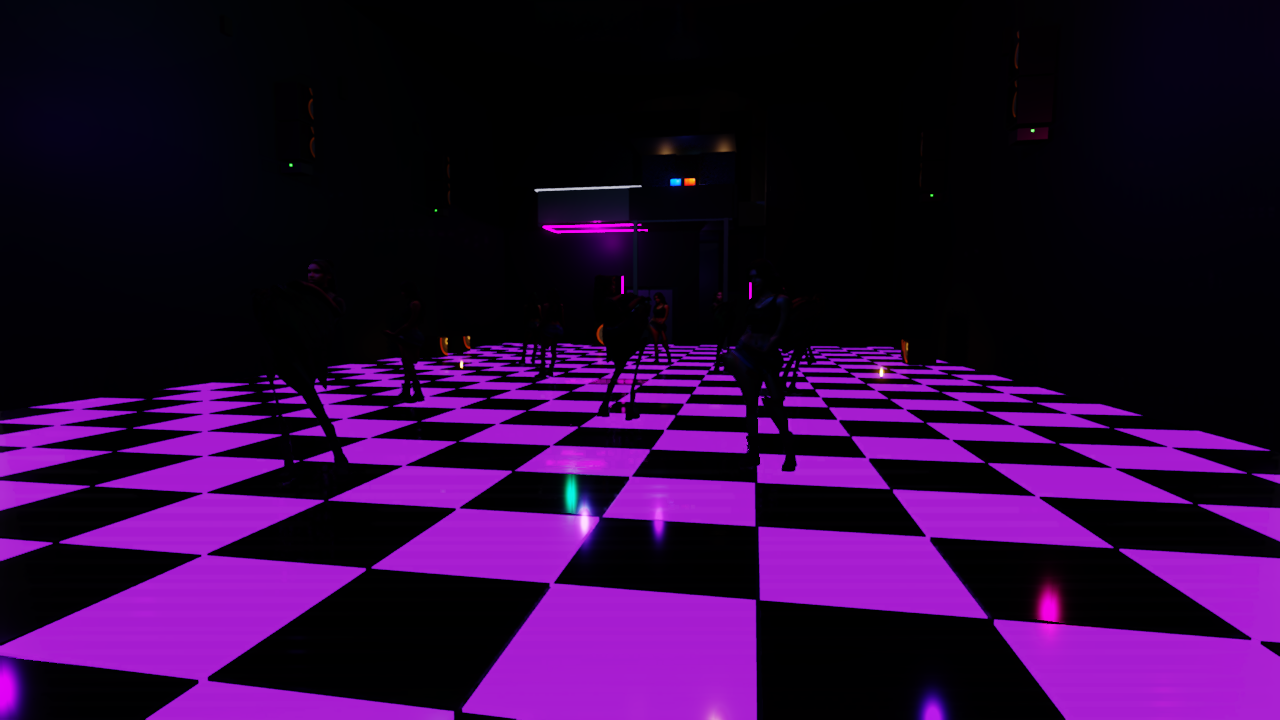
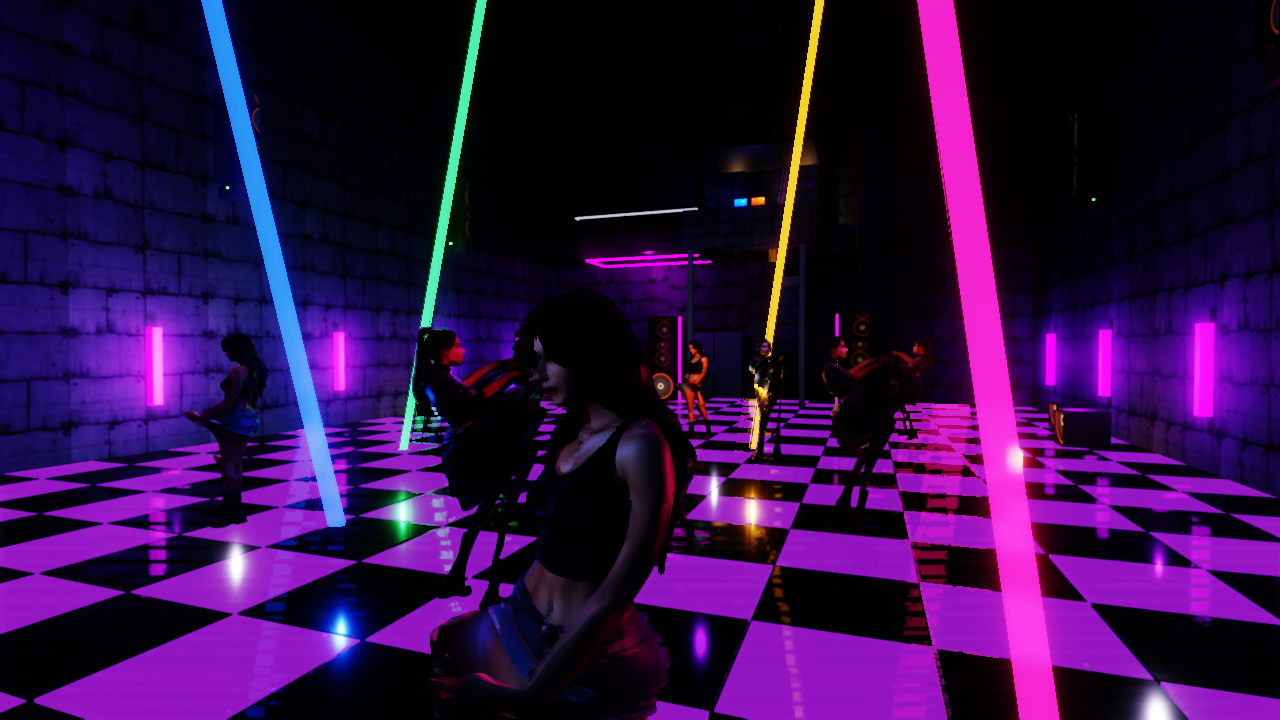
Club 1127: walls can finally RECEIVE light (kWall tint 0.04 -> 0.26) + tube/beam/fill tuning + re-rendered proof shots
THE find: kWall's 0x0a0a12 tint (from the untextured era) multiplied the
concrete texel to ~1% effective albedo — NO light source could EVER register
on a club wall, which is why they stayed dead-black through every relight.
With the texture carrying the darkness and the tint at 0.26, the blacklight
casts now paint a visible violet wash around every vertical tube.

Also:
- tubes pulled PROUD of the wall's inner face (old centers put the whole tube
  INSIDE the wall slab at +-7.57 vs inner face 7.47 — the real reason the
  original 28 'barely read'); cast color up to hot HDR violet (2.0/0.18/4.0).
- dancers: 4 lavender perimeter fills at head height (an overhead key lights
  hair, not faces); dancer tints lifted ~1.25x (dark-albedo outfits swallowed
  the light); dance-floor tile emissive trimmed (2.2 -> 1.5 + pulse floor cut)
  so the floor stops owning the exposure; gel breathe floor 0.62 -> 0.72.
- beams slimmed (0.075 -> 0.055 half-width, opacity 0.10, emissive halved) —
  light shafts, not laser rods.
- screenshots: club_dancefloor + club_wide re-rendered, NEW club_wall showing
  the vertical tubes washing the east wall. Light set: 55 of 64 cap.
- gates: --test-club 16/16, elevator/elevatorfsm/elevator-showcase/canonplay/
  canonlevel all 0 fails, --smoketest --world club exit 0, VUID clean,
  allocationCount=0.

Claude-Session: https://claude.ai/code/session_013JQ1ntcYTtTxDidNeqDp3B

diff --git a/app/club1127.cpp b/app/club1127.cpp
@@ -53,7 +53,16 @@ constexpr float kClubBpm = 85.5f;
 
 // ---- Tints (linear-ish; the device tonemaps) ------------------------------
 // Ported from the JS StandardMaterial diffuse colors (hex -> 0..1 RGB).
-const float kWall[4]   = { 0.039f, 0.039f, 0.070f, 1.0f }; // 0x0a0a12 club wall
+const float kWall[4]   = { 0.26f, 0.26f, 0.34f, 1.0f };    // club wall TINT (multiplies the
+                                                           // sWall concrete texel). Was 0x0a0a12
+                                                           // (~0.04) from the untextured era —
+                                                           // that crushed effective albedo to
+                                                           // ~1%, so NO light (blacklight cast,
+                                                           // gels, fills) could EVER register on
+                                                           // a wall: they stayed dead-black even
+                                                           // when directly lit. The texture
+                                                           // carries the darkness now; the tint
+                                                           // just cools it.
 const float kFloor[4]  = { 0.031f, 0.031f, 0.063f, 1.0f }; // 0x080810 club floor
 const float kCeil[4]   = { 0.020f, 0.020f, 0.031f, 1.0f }; // 0x050508 ceiling
 const float kSpk[4]    = { 0.039f, 0.039f, 0.039f, 1.0f }; // 0x0a0a0a speaker cab
@@ -80,7 +89,10 @@ const float kEmitDjCon[4]   = { 0.10f, 0.10f, 0.28f, 1.5f }; // DJ console glow
 const float kEmitDjScr[4]   = { 0.30f, 0.30f, 0.90f, 3.0f }; // DJ/OLED screens
 const float kEmitKeypad[4]  = { 0.10f, 0.95f, 0.30f, 2.0f }; // green keypad
 const float kEmitBarTop[4]  = { 0.30f, 0.20f, 0.50f, 1.5f }; // bar-top glow
-const float kEmitTile1[4]   = { 0.45f, 0.0f, 0.85f, 2.2f };  // purple dance tile (0x2a0050)
+const float kEmitTile1[4]   = { 0.45f, 0.0f, 0.85f, 1.5f };  // purple dance tile (0x2a0050)
+                                                             // (blacklights pass: 2.2 -> 1.5 — the
+                                                             // blazing floor owned the exposure and
+                                                             // crushed the dancers to silhouettes)
 const float kEmitTile2[4]   = { 0.12f, 0.0f, 0.30f, 1.2f };  // dark dance tile (0x0a0020)
 const float kEmitOrb[4]     = { 0.45f, 0.45f, 0.60f, 1.4f };  // ORB self-glow
 const float kEmitLed[4]     = { 0.10f, 1.00f, 0.10f, 3.0f };  // amp power LED
@@ -91,8 +103,12 @@ const float kBlacklightR = 0.50f, kBlacklightG = 0.0f, kBlacklightB = 1.0f;
 // tubes were emissive-only geometry — they glowed as thin bars but cast NOTHING,
 // so the wall behind them stayed dead-black. Each tube now carries a violet
 // point light at this HDR color; update() pulses it in phase with the emissive.
-const float kBlacklightCast[3] = { 0.65f, 0.06f, 1.30f };
-const float kBlacklightCastRange = 5.0f;   // ~5 m: washes the wall + nearby dancers
+const float kBlacklightCast[3] = { 2.00f, 0.18f, 4.00f };  // hot HDR violet — the wall is
+                                                           // dark-albedo concrete under an
+                                                           // ACES curve keyed to the bright
+                                                           // floor; anything gentler reads
+                                                           // as black (0.65 and 1.1 both did)
+const float kBlacklightCastRange = 5.5f;   // ~5 m: washes the wall + nearby dancers
 
 // Orbiter gel palettes (Tim addendum: "the lights move to the music"): update()
 // rotates which gel each orbiter carries on every 8-beat phrase (pink -> blue ->
@@ -137,7 +153,7 @@ void poseBeam(Entity& e, float ax, float ay, float az, float bx, float by, float
     const float xl = std::sqrt(xx * xx + xy * xy + xz * xz);
     xx /= xl; xy /= xl; xz /= xl;
     const float zx = uy * xz - uz * xy, zy = uz * xx - ux * xz, zz = ux * xy - uy * xx;
-    const float w = 0.075f;                       // beam half-width
+    const float w = 0.055f;                       // beam half-width (slim shaft)
     e.transform[0]  = xx * w;  e.transform[1]  = xy * w;  e.transform[2]  = xz * w;  e.transform[3]  = 0;
     e.transform[4]  = dx * 0.5f; e.transform[5] = dy * 0.5f; e.transform[6] = dz * 0.5f; e.transform[7] = 0;
     e.transform[8]  = zx * w;  e.transform[9]  = zy * w;  e.transform[10] = zz * w;  e.transform[11] = 0;
@@ -721,18 +737,25 @@ const Club1127World::Stats& Club1127World::build(Scene& scene, x3::rhi::IRenderD
                      kBlacklightCastRange);
             ++m_stats.blacklights;
         };
+        // Mount tubes PROUD of the wall's INNER FACE. The walls are boxes
+        // CENTERED at ±CW/2 (half thickness T/2), so their inner face sits at
+        // ±(CW/2 - T/2) — the old `CW/2 - 0.05` tube center put the whole tube
+        // INSIDE the wall slab, which is the real reason the blacklights
+        // "barely read": only a z-fighting sliver ever showed.
+        const float xFace = CW / 2 - T / 2;   // long-wall inner face (±7.47)
+        const float zFace = CL / 2 - T / 2;   // south-wall inner face (15.09)
         // Long walls: 8 tubes per wall at EXACT 12 ft spacing, centered along Z
         // (z = ±12.81 m max, comfortably inside the ±15.24 m room).
         for (int side = -1; side <= 1; side += 2)
             for (int n = 0; n < 8; ++n) {
                 const float z = (n - 3.5f) * bi;
-                blacklight(side * (CW / 2 - 0.05f), z, (float)-side, 0.0f);
+                blacklight(side * (xFace - 0.09f), z, (float)-side, 0.0f);
             }
         // South wall: 2 per side flanking the centered 85" display, 12 ft apart
         // (x = ±1.83, ±5.49 — inside the ±7.62 m half-width).
         for (int s = -1; s <= 1; s += 2)
             for (int n = 0; n < 2; ++n)
-                blacklight(s * (bi / 2 + n * bi), CL / 2 - 0.05f, 0.0f, -1.0f);
+                blacklight(s * (bi / 2 + n * bi), zFace - 0.09f, 0.0f, -1.0f);
         // UV point lights (4) — the room-wide violet AIR (kept; the per-tube
         // lights above are the wall/crowd cast, these are the base atmosphere).
         const float uv[4][3] = {
@@ -1181,7 +1204,20 @@ const Club1127World::Stats& Club1127World::build(Scene& scene, x3::rhi::IRenderD
     // centroid (the dancer spots cluster around z ≈ -2) puts actual light on
     // faces/torsos. Deliberately gentle — way under the gel colors — so the room
     // stays a moody club, not a showroom.
-    addLight(m_lights, 0, oy + 4.6f, -1.8f, 1.05f, 0.95f, 1.30f, 13.0f);
+    addLight(m_lights, 0, oy + 4.6f, -1.8f, 1.50f, 1.35f, 1.85f, 14.0f);
+    // ...plus four soft lavender PERIMETER FILLS at head height around the floor:
+    // an overhead key alone lights hair and shoulders, not the faces/torsos a
+    // camera actually sees — these front/side-light the crowd from every axis
+    // (the dark-albedo outfits need N·L from the SIDE to read at all).
+    {
+        const float fillC[3] = { 1.00f, 0.88f, 1.25f };
+        const float fillPts[4][3] = {
+            { -5.6f, 1.7f, -1.8f }, { 5.6f, 1.7f, -1.8f },
+            {  0.0f, 1.7f, -8.8f }, { 0.0f, 1.7f,  5.2f },
+        };
+        for (auto& f : fillPts)
+            addLight(m_lights, f[0], oy + f[1], f[2], fillC[0], fillC[1], fillC[2], 11.0f);
+    }
 
     // ==================================================================
     // CEILING MOVING-HEAD RIG (Tim addenda: "we had the lights that move to the
@@ -1227,14 +1263,14 @@ const Club1127World::Stats& Club1127World::build(Scene& scene, x3::rhi::IRenderD
                                     beamCol, kEmitOff, false);
                 Entity& be = scene.get(mh.beamEnt);
                 be.transparent = true;
-                be.glass.opacity = 0.14f;     // a light shaft, not a solid
+                be.glass.opacity = 0.10f;     // a light shaft, not a solid
                 be.glass.refraction = 0.0f;
                 be.glass.roughness = 1.0f;
                 be.glass.specular = 0.0f;
                 const float* gel = kSpotGels[i & 3];
                 be.glass.tint[0] = gel[0]; be.glass.tint[1] = gel[1]; be.glass.tint[2] = gel[2];
                 be.emissive[0] = gel[0]; be.emissive[1] = gel[1]; be.emissive[2] = gel[2];
-                be.emissive[3] = 0.55f;       // soft volumetric-ish glow
+                be.emissive[3] = 0.22f;       // soft volumetric-ish glow
                 poseBeam(be, mh.fx, oy + CH - 0.63f, mh.fz, mh.fx, oy + 0.05f, mh.fz);
             }
             m_movingHeads.push_back(mh);
@@ -1299,12 +1335,15 @@ const Club1127World::Stats& Club1127World::build(Scene& scene, x3::rhi::IRenderD
             // AnnaBodySuit is node-animated (no armature — clips won't bake onto
             // it) so she works the BAR and the lounge instead of the floor.
             const char* rigs[2] = { "AnnaCasual.glb", "AnnaTactical.glb" };
+            // (fix/club-blacklights: tints lifted ~1.25x — the rigs' outfits are
+            // dark-albedo, so at 1.0x they swallowed the club light and rendered
+            // as silhouettes even when lit. Hue variety preserved.)
             const float tints[5][4] = {
-                { 1.05f, 0.85f, 1.25f, 1.0f },   // violet wash
-                { 0.85f, 1.05f, 1.30f, 1.0f },   // cyan wash
-                { 1.25f, 0.90f, 1.00f, 1.0f },   // warm rose
-                { 0.90f, 1.20f, 0.95f, 1.0f },   // green tinge
-                { 1.10f, 1.05f, 0.90f, 1.0f },   // amber
+                { 1.30f, 1.05f, 1.55f, 1.0f },   // violet wash
+                { 1.05f, 1.30f, 1.60f, 1.0f },   // cyan wash
+                { 1.55f, 1.10f, 1.25f, 1.0f },   // warm rose
+                { 1.10f, 1.50f, 1.20f, 1.0f },   // green tinge
+                { 1.40f, 1.30f, 1.10f, 1.0f },   // amber
             };
             // Spots: a loose ring on the dance floor + two by the DJ end. Kept off
             // the bar lane and inside the tile field.
@@ -1357,7 +1396,9 @@ void Club1127World::update(float dt, Scene& scene, x3::rhi::IRenderDevice& devic
     const float beatHz    = kClubBpm / 60.0f;
     const float beatCount = t * beatHz;                    // absolute beat position
     const float thump     = std::pow(std::max(0.0f, std::sin(beatCount * kPi)), 6.0f);
-    const float breathe   = 0.62f + 0.55f * thump;         // gel beat envelope
+    const float breathe   = 0.72f + 0.48f * thump;         // gel beat envelope (floor
+                                                           // 0.72: the crowd never drops
+                                                           // back to silhouettes mid-beat)
 
     // --- Spin THE ORB (rotate about Y) by rewriting its transform's upper 3x3. ---
     if (m_orbValid && m_orbEnt < scene.size()) {
@@ -1411,7 +1452,8 @@ void Club1127World::update(float dt, Scene& scene, x3::rhi::IRenderDevice& devic
                 Entity& be = scene.get(mh.beamEnt);
                 be.glass.tint[0] = gel[0]; be.glass.tint[1] = gel[1]; be.glass.tint[2] = gel[2];
                 be.emissive[0] = gel[0]; be.emissive[1] = gel[1]; be.emissive[2] = gel[2];
-                be.emissive[3] = 0.40f + 0.45f * thump;
+                be.emissive[3] = 0.20f + 0.26f * thump;   // a light SHAFT, not a laser rod
+                                                          // (0.40/0.45 read as solid neon pillars)
                 poseBeam(be, mh.fx, kClubY + kCH - 0.63f, mh.fz, px, kClubY + 0.05f, pz);
             }
         }
@@ -1484,7 +1526,9 @@ void Club1127World::update(float dt, Scene& scene, x3::rhi::IRenderDevice& devic
         // Bright dance tiles: a soft breathe (never dark — the floor is the star).
         for (const uint32_t id : m_tilePulseEnts) {
             if (id >= scene.size()) continue;
-            scene.get(id).emissive[3] = 0.40f + 0.45f * thump;   // faint violet breath
+            scene.get(id).emissive[3] = 0.28f + 0.38f * thump;   // faint violet breath
+                                        // (blacklights pass: trimmed with kEmitTile1
+                                        // so the floor stops owning the exposure)
         }
         // OLED shimmer: each screen's brightness wanders on its own phase, so the
         // baked equalizer frames read as LIVE video from across the room. This rides
